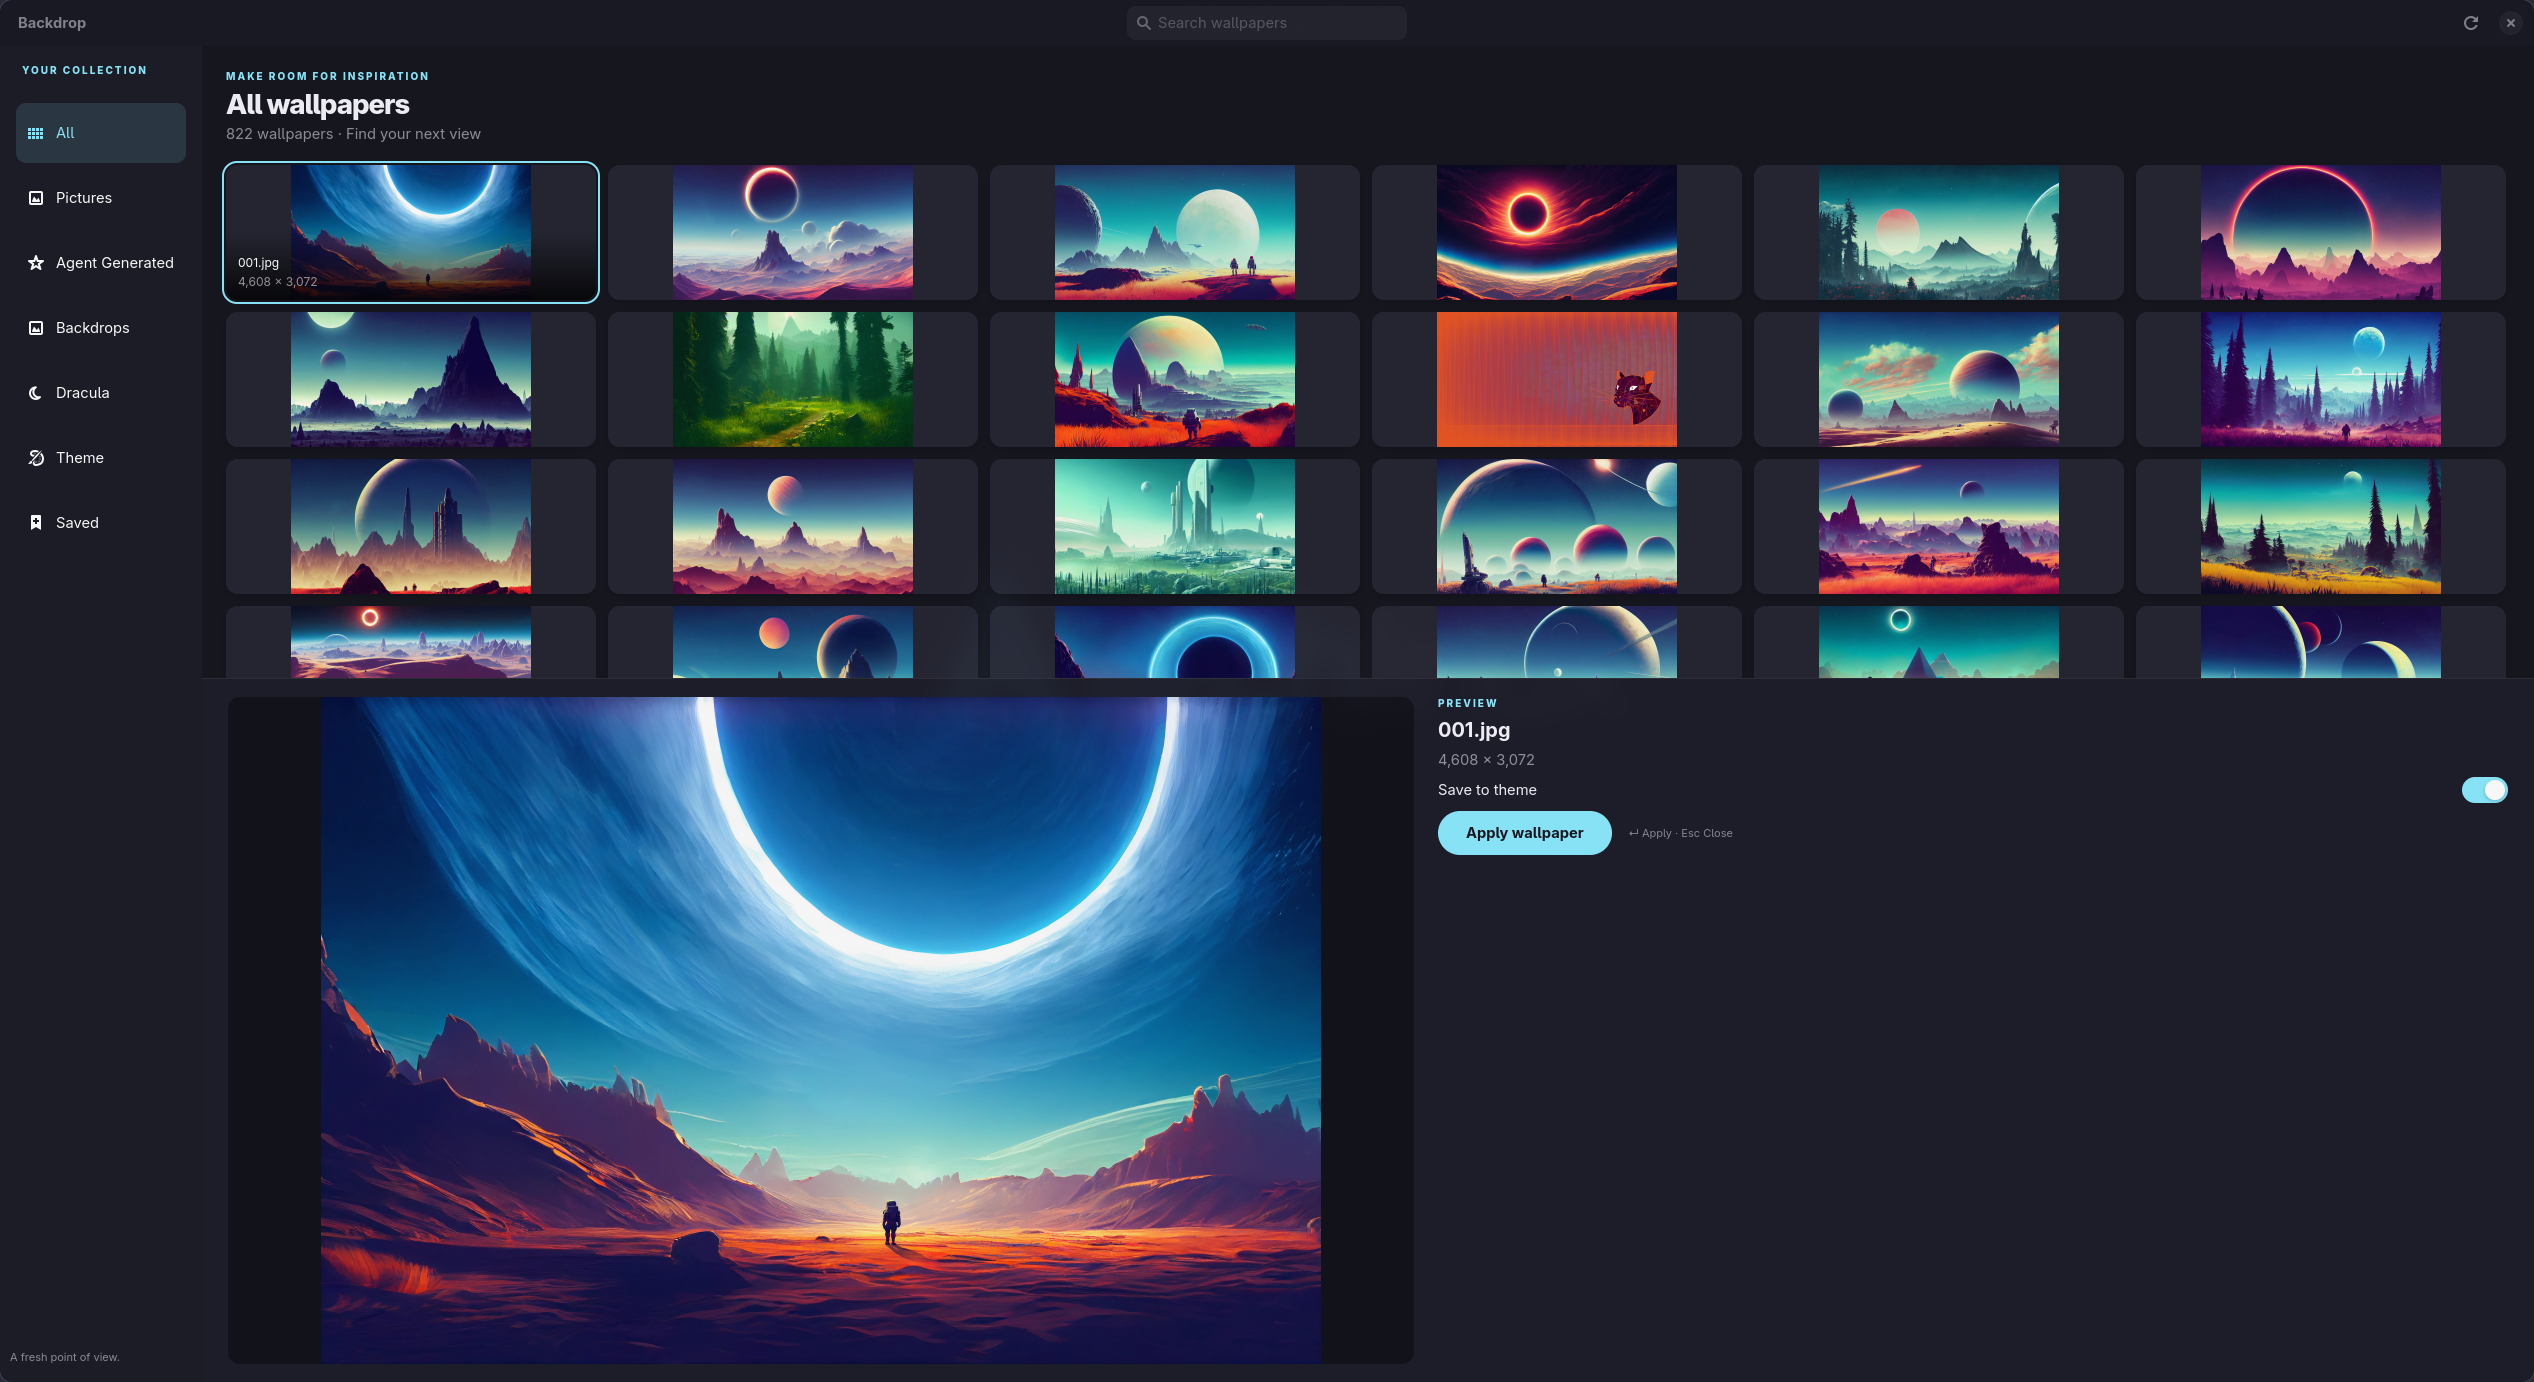
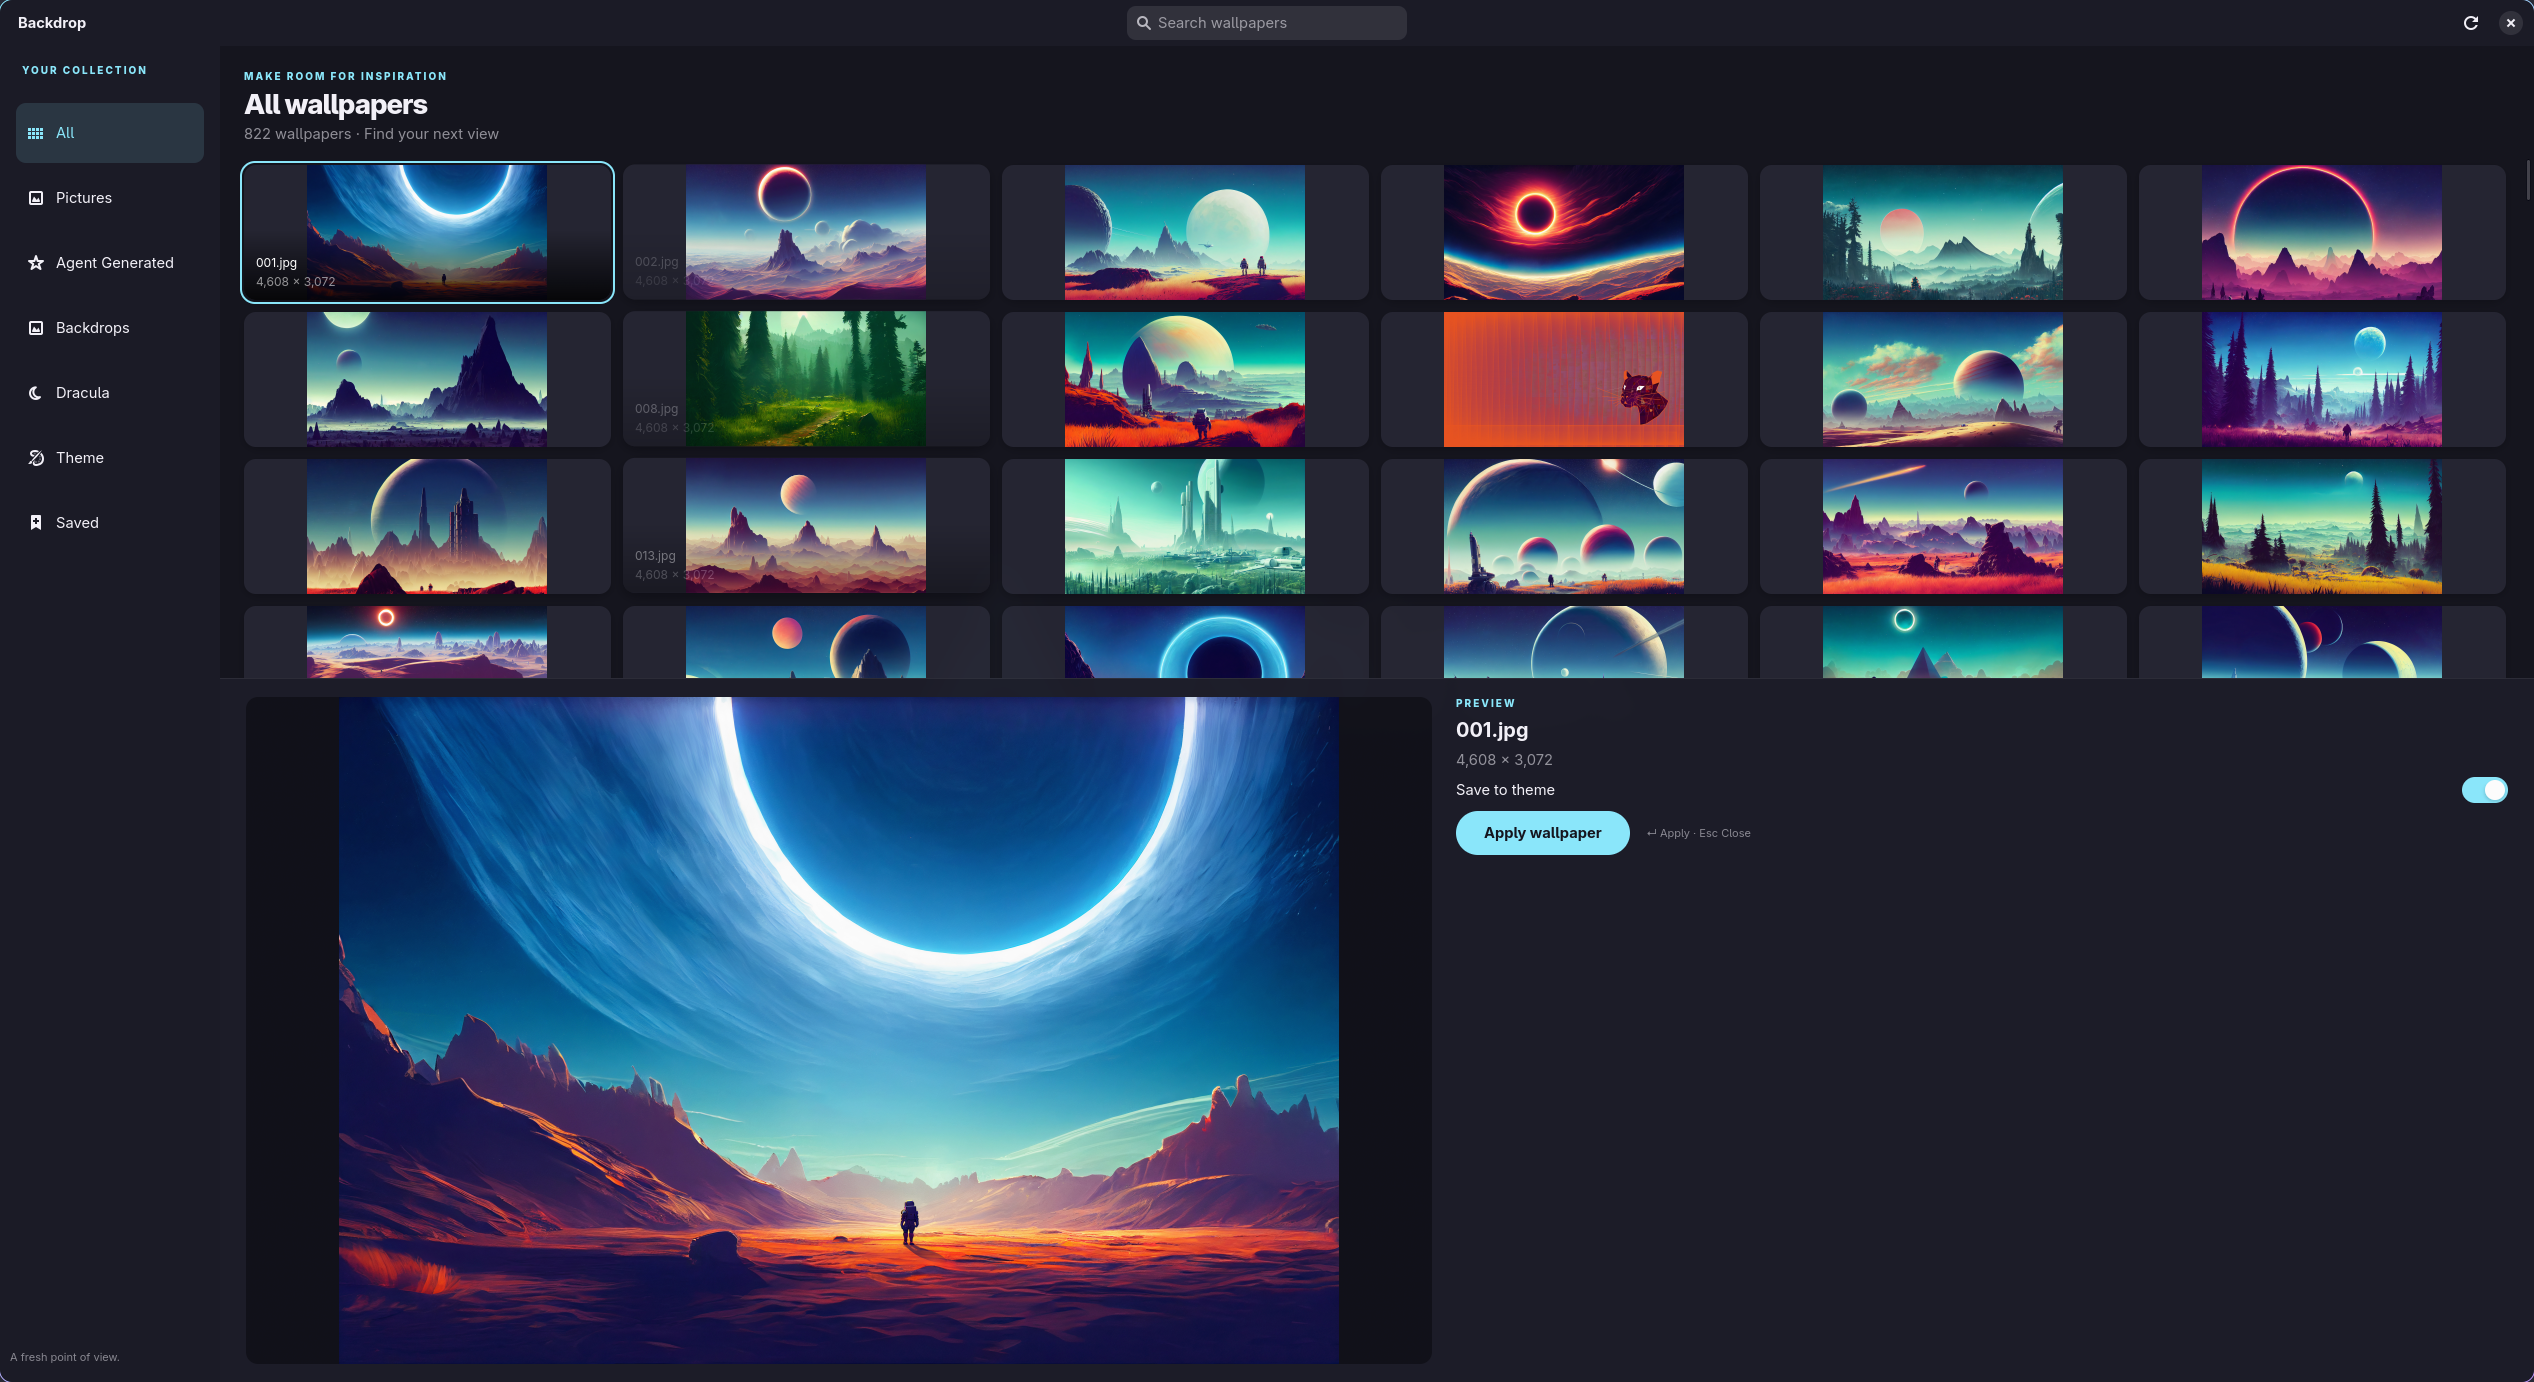
Pin collections as a permanent left column
Drop OverlaySplitView so the source list cannot collapse off-screen.

diff --git a/src/backdrop/app.py b/src/backdrop/app.py
@@ -71,8 +71,9 @@ class Window(Adw.ApplicationWindow):
         refresh.connect('clicked', self.refresh)
         header.pack_end(refresh)
         toolbar.add_top_bar(header)
-        self.split = Adw.OverlaySplitView(min_sidebar_width=190, max_sidebar_width=190)
+        layout = Gtk.Box(orientation=Gtk.Orientation.HORIZONTAL)
         sidebar = vertical(20)
+        sidebar.set_size_request(220, -1)
         sidebar.add_css_class('sources')
         heading = label('YOUR COLLECTION', 'eyebrow')
         heading.set_margin_start(12)
@@ -90,8 +91,8 @@ class Window(Adw.ApplicationWindow):
         spacer = Gtk.Box(vexpand=True)
         sidebar.append(spacer)
         sidebar.append(label('A fresh point of view.', 'hint'))
-        self.split.set_sidebar(sidebar)
         content = vertical()
+        content.set_hexpand(True)
         intro = vertical(4)
         for side in ('top', 'bottom', 'start', 'end'):
             getattr(intro, f'set_margin_{side}')(24 if side != 'bottom' else 8)
@@ -119,18 +120,11 @@ class Window(Adw.ApplicationWindow):
         self.stack.add_named(self.empty, 'empty')
         content.append(self.stack)
         content.append(self.build_inspector())
-        self.split.set_content(content)
-        toolbar.set_content(self.split)
+        layout.append(sidebar)
+        layout.append(content)
+        toolbar.set_content(layout)
         self.toast.set_child(toolbar)
         self.set_content(self.toast)
-        menu = Gtk.ToggleButton(icon_name='sidebar-show-symbolic', tooltip_text='Show collections', visible=False)
-        menu.bind_property('active', self.split, 'show-sidebar', GObject.BindingFlags.BIDIRECTIONAL | GObject.BindingFlags.SYNC_CREATE)
-        header.pack_start(menu)
-        breakpoint = Adw.Breakpoint(condition=Adw.BreakpointCondition.parse('max-width: 900px'))
-        breakpoint.add_setter(self.split, 'collapsed', True)
-        breakpoint.add_setter(self.split, 'show-sidebar', False)
-        breakpoint.add_setter(menu, 'visible', True)
-        self.add_breakpoint(breakpoint)
         keys = Gtk.EventControllerKey()
         keys.connect('key-pressed', self.key_pressed)
         self.add_controller(keys)
@@ -283,8 +277,6 @@ class Window(Adw.ApplicationWindow):
     def source_changed(self, box: Gtk.ListBox, row: Gtk.ListBoxRow | None) -> None:
         if row:
             self.source_name = SOURCES[row.get_index()][0]
-            if self.split.get_collapsed():
-                self.split.set_show_sidebar(False)
             self.refresh()
 
     def refresh(self, *_args: Any) -> None:
